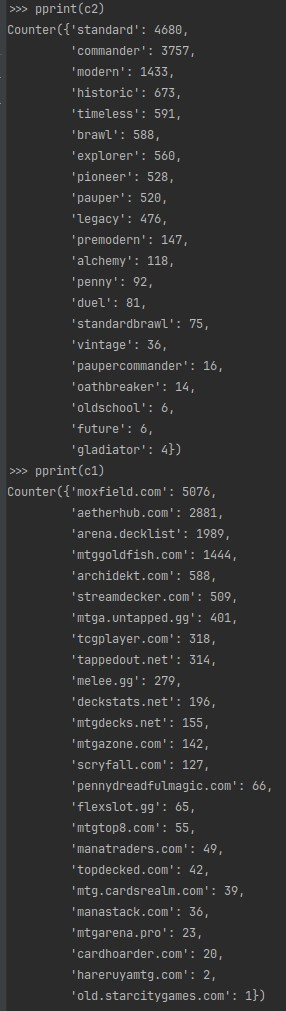
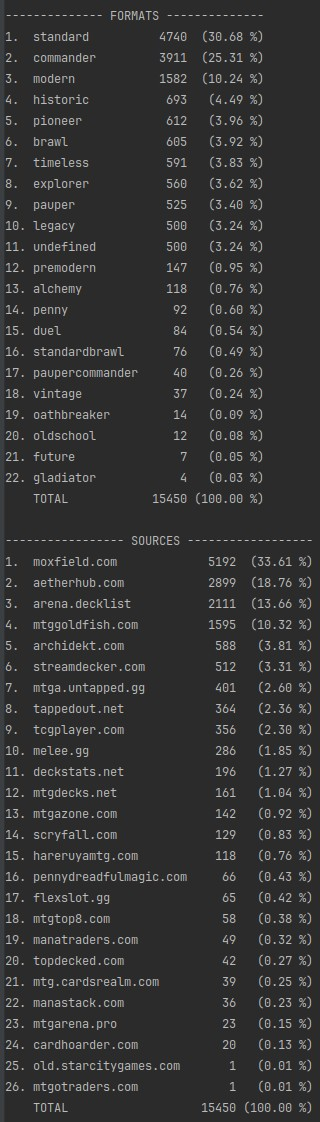
Pretty print aggregated deck data (closes #95). Minor fixes in: Deck object, Hareruya and Goldfish scrapers

Changed region(s): [[0.0, 0.0, 0.979, 1.0], [0.0, 0.1227, 0.0559, 0.4293]]

diff --git a/mtgcards/__init__.py b/mtgcards/__init__.py
@@ -74,28 +74,28 @@ init_log()
 
 
 # import scraper modules so they get registered for the factory method
-from mtgcards.deck.scrapers.aetherhub import AetherhubScraper
-from mtgcards.deck.scrapers.archidekt import ArchidektScraper
-from mtgcards.deck.scrapers.cardhoarder import CardhoarderScraper
-from mtgcards.deck.scrapers.cardsrealm import CardsrealmScraper
-from mtgcards.deck.scrapers.deckstats import DeckstatsScraper
-from mtgcards.deck.scrapers.flexslot import FlexslotScraper
-from mtgcards.deck.scrapers.goldfish import GoldfishScraper
-from mtgcards.deck.scrapers.hareruya import InternationalHareruyaScraper
-from mtgcards.deck.scrapers.manastack import ManaStackScraper
-from mtgcards.deck.scrapers.manatraders import ManatradersScraper
-from mtgcards.deck.scrapers.melee import MeleeGgScraper
-from mtgcards.deck.scrapers.moxfield import MoxfieldScraper
-from mtgcards.deck.scrapers.mtgarenapro import MtgArenaProScraper
-from mtgcards.deck.scrapers.mtgazone import MtgaZoneScraper
-from mtgcards.deck.scrapers.mtgdecksnet import MtgDecksNetScraper
-from mtgcards.deck.scrapers.mtgotraders import MtgoTradersScraper
-from mtgcards.deck.scrapers.mtgtop8 import MtgTop8Scraper
-from mtgcards.deck.scrapers.penny import PennyDreadfulMagicScraper
-from mtgcards.deck.scrapers.scryfall import ScryfallScraper
-from mtgcards.deck.scrapers.starcitygames import StarCityGamesScraper
-from mtgcards.deck.scrapers.streamdecker import StreamdeckerScraper
-from mtgcards.deck.scrapers.tappedout import TappedoutScraper
-from mtgcards.deck.scrapers.tcgplayer import NewPageTcgPlayerScraper, OldPageTcgPlayerScraper
-from mtgcards.deck.scrapers.topdecked import TopDeckedScraper, TopDeckedMetadeckScraper
-from mtgcards.deck.scrapers.untapped import UntappedProfileDeckScraper, UntappedRegularDeckScraper
+from mtgcards.deck.scrapers.aetherhub import DeckScraper
+from mtgcards.deck.scrapers.archidekt import DeckScraper
+from mtgcards.deck.scrapers.cardhoarder import DeckScraper
+from mtgcards.deck.scrapers.cardsrealm import DeckScraper
+from mtgcards.deck.scrapers.deckstats import DeckScraper
+from mtgcards.deck.scrapers.flexslot import DeckScraper
+from mtgcards.deck.scrapers.goldfish import DeckScraper
+from mtgcards.deck.scrapers.hareruya import DeckScraper
+from mtgcards.deck.scrapers.manastack import DeckScraper
+from mtgcards.deck.scrapers.manatraders import DeckScraper
+from mtgcards.deck.scrapers.melee import DeckScraper
+from mtgcards.deck.scrapers.moxfield import DeckScraper
+from mtgcards.deck.scrapers.mtgarenapro import DeckScraper
+from mtgcards.deck.scrapers.mtgazone import DeckScraper
+from mtgcards.deck.scrapers.mtgdecksnet import DeckScraper
+from mtgcards.deck.scrapers.mtgotraders import DeckScraper
+from mtgcards.deck.scrapers.mtgtop8 import DeckScraper
+from mtgcards.deck.scrapers.penny import DeckScraper
+from mtgcards.deck.scrapers.scryfall import DeckScraper
+from mtgcards.deck.scrapers.starcitygames import DeckScraper
+from mtgcards.deck.scrapers.streamdecker import DeckScraper
+from mtgcards.deck.scrapers.tappedout import DeckScraper
+from mtgcards.deck.scrapers.tcgplayer import DeckScraper
+from mtgcards.deck.scrapers.topdecked import DeckScraper
+from mtgcards.deck.scrapers.untapped import DeckScraper

diff --git a/mtgcards/deck/scrapers/hareruya.py b/mtgcards/deck/scrapers/hareruya.py
@@ -30,7 +30,8 @@ class InternationalHareruyaScraper(DeckScraper):
 
     @staticmethod
     def is_deck_url(url: str) -> bool:  # override
-        return "hareruyamtg.com" in url and "/deck/" in url
+        return ("hareruyamtg.com" in url and "/deck/" in url
+                and not "deck.hareruyamtg.com/deck/" in url)
 
     @staticmethod
     def sanitize_url(url: str) -> str:
@@ -117,10 +118,13 @@ class JapaneseHareruyaScraper(DeckScraper):
 
     @staticmethod
     def is_deck_url(url: str) -> bool:  # override
-        return "hareruyamtg.com/decks/list/" in url or "hareruyamtg.com/decks/" in url
+        return ("hareruyamtg.com/decks/list/" in url or "hareruyamtg.com/decks/" in url
+                or "deck.hareruyamtg.com/deck/" in url) and "/user/" not in url
 
     @staticmethod
     def sanitize_url(url: str) -> str:  # override
+        if "deck.hareruyamtg.com/deck/" in url:
+            return url.replace("deck.hareruyamtg.com/deck/", "www.hareruyamtg.com/decks/")
         return url
 
     def _pre_parse(self) -> None:  # override
@@ -153,7 +157,7 @@ class JapaneseHareruyaScraper(DeckScraper):
             self._metadata.setdefault("event", {})
             self._metadata["event"]["ranking"] = event_ranking
         if source_url := self._json_data.get("source_url"):
-            self._metadata["source_url"] = source_url
+            self._metadata["original_source"] = source_url
         self._metadata["date"] = dateutil.parser.parse(self._json_data["update_date"]).date()
 
     def _process_card(self, json_card: Json) -> None:

diff --git a/mtgcards/utils/__init__.py b/mtgcards/utils/__init__.py
@@ -9,6 +9,7 @@
 """
 import logging
 import re
+from collections import Counter
 from datetime import datetime
 from functools import wraps
 from typing import Any, Callable, Iterable, Optional, Type
@@ -374,3 +375,25 @@ def is_foreign(text: str) -> bool:
     if lang.iso_code_639_1.name.lower() == "en":
         return True
     return False
+
+
+def print_counter(counter: Counter, title="") -> None:
+    max_name = max(len(name) for name in counter)
+    max_ord = len(str(len(counter)))
+    max_count = len(str(max(count for count in counter.values())))
+    if title:
+        print(f" {title} ".center(max_ord + max_name + max_count + 16, "-"))
+    for j, (name, count) in enumerate(counter.most_common(), start=1):
+        percent = f"{count * 100 / counter.total():.2f} %"
+        print(
+            f"{j}.".ljust(max_ord + 1),
+            name.ljust(max_name + 1),
+            str(count).rjust(max_count + 1),
+            f"({percent})".rjust(10),
+        )
+    print(
+        f"".ljust(max_ord + 1),
+        "TOTAL".ljust(max_name + 1),
+        str(counter.total()).rjust(max_count + 1),
+        f"({100:.2f} %)".rjust(10),
+    )

diff --git a/mtgcards/deck/__init__.py b/mtgcards/deck/__init__.py
@@ -581,10 +581,16 @@ class Deck:
             commander: Card | None = None, partner_commander: Card | None = None,
             companion: Card | None = None, metadata: Json | None = None) -> None:
         commanders = [c for c in [commander, partner_commander] if c]
+        maindeck, sideboard = [*maindeck], [*sideboard] if sideboard else []
         if partner_commander:
             if not commander:
                 raise InvalidDeck("Partner commander without commander")
         if commanders:
+            for cmd in commanders:
+                if cmd in maindeck:
+                    maindeck.remove(cmd)
+                if cmd in sideboard:
+                    sideboard.remove(cmd)
             cards = {*maindeck, *sideboard}
             if any(cmd in cards for cmd in commanders):
                 raise InvalidDeck(f"Redundant commander maindeck/sideboard inclusion")

diff --git a/mtgcards/yt.py b/mtgcards/yt.py
@@ -384,7 +384,11 @@ def get_aggregate_deck_data() -> tuple[Counter, Counter]:
             src = "melee.gg"
         sources.append(src)
     source_counter = Counter(sources)
-    format_counter = Counter([d["metadata"]["format"] for d in decks if d["metadata"].get("format")])
+    fmts = [d["metadata"]["format"] for d in decks if d["metadata"].get("format")]
+    delta = len(decks) - len(fmts)
+    if delta > 0:
+        fmts += ["undefined"] * delta
+    format_counter = Counter(fmts)
     return source_counter, format_counter
 
 
@@ -522,7 +526,8 @@ class Video:
         "www.paste4btc.com/",
         "www.pastebin.pt/",
     }
-    _THROTTLED = "aetherhub.com", "mtggoldfish.com", "moxfield.com", "tappedout.net"
+    _THROTTLED = (
+        "aetherhub.com", "mtggoldfish.com", "moxfield.com", "tappedout.net", "hareruyamtg.com")
 
     @property
     def id(self) -> str:

diff --git a/mtgcards/deck/scrapers/goldfish.py b/mtgcards/deck/scrapers/goldfish.py
@@ -50,7 +50,8 @@ class GoldfishScraper(DeckScraper):
 
     @staticmethod
     def is_deck_url(url: str) -> bool:  # override
-        return "www.mtggoldfish.com/deck/" in url or "www.mtggoldfish.com/archetype/" in url
+        return (("www.mtggoldfish.com/deck/" in url or "www.mtggoldfish.com/archetype/" in url)
+                and "/custom/" not in url)
 
     @staticmethod
     def sanitize_url(url: str) -> str:  # override

diff --git a/mtgcards/deck/scrapers/__init__.py b/mtgcards/deck/scrapers/__init__.py
@@ -58,6 +58,7 @@ SANITIZED_FORMATS = {
     "historicpauper": "historic",
     "no banned list modern": "modern",
     "oldschool 93/94": "oldschool",
+    "past standard": "standard",
     "pauper edh": "paupercommander",
     "pauperedh": "paupercommander",
 }

diff --git a/README.md b/README.md
@@ -57,6 +57,7 @@ descriptions).
       possibilities already :))
     * Both Untapped decklist types featured in YT videos are supported: regular deck and profile deck
     * Both old and new TCGPlayer sites are supported
+    * Both international and Japanese Hareruya sites are supported 
     * Due to their dynamic nature, Untapped, TCGPlayer (new site), ManaStack, Flexslot and TopDecked 
       are scraped using [Selenium](https://github.com/SeleniumHQ/Selenium). It's also used to scrape MTGTop8, MTGDecks.net and 
       Cardhoarder, even though those are very much static sites. Selenium is still helpful here 
@@ -72,7 +73,7 @@ descriptions).
 * Importing back into a Deck from those formats
 * Export/import to other formats in plans
 * Dumping decks, YT videos and channels to .json
-* I compiled a list of almost 800 YT channels that feature decks in their descriptions and successfully 
+* I compiled a list of over 900 YT channels that feature decks in their descriptions and successfully 
   scraped them (at least 25 videos deep) so this data only waits to be creatively used now!
 
 ### How it looks in a Google Sheet
